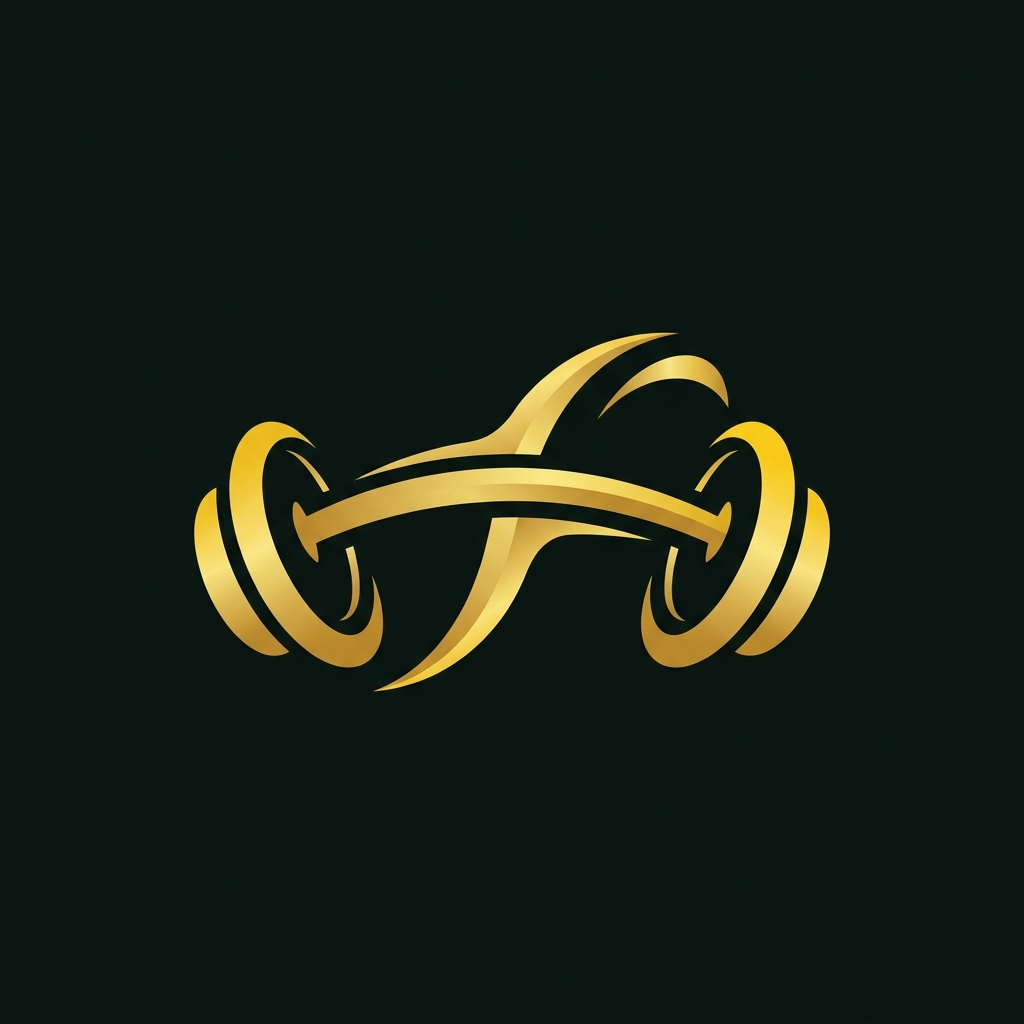
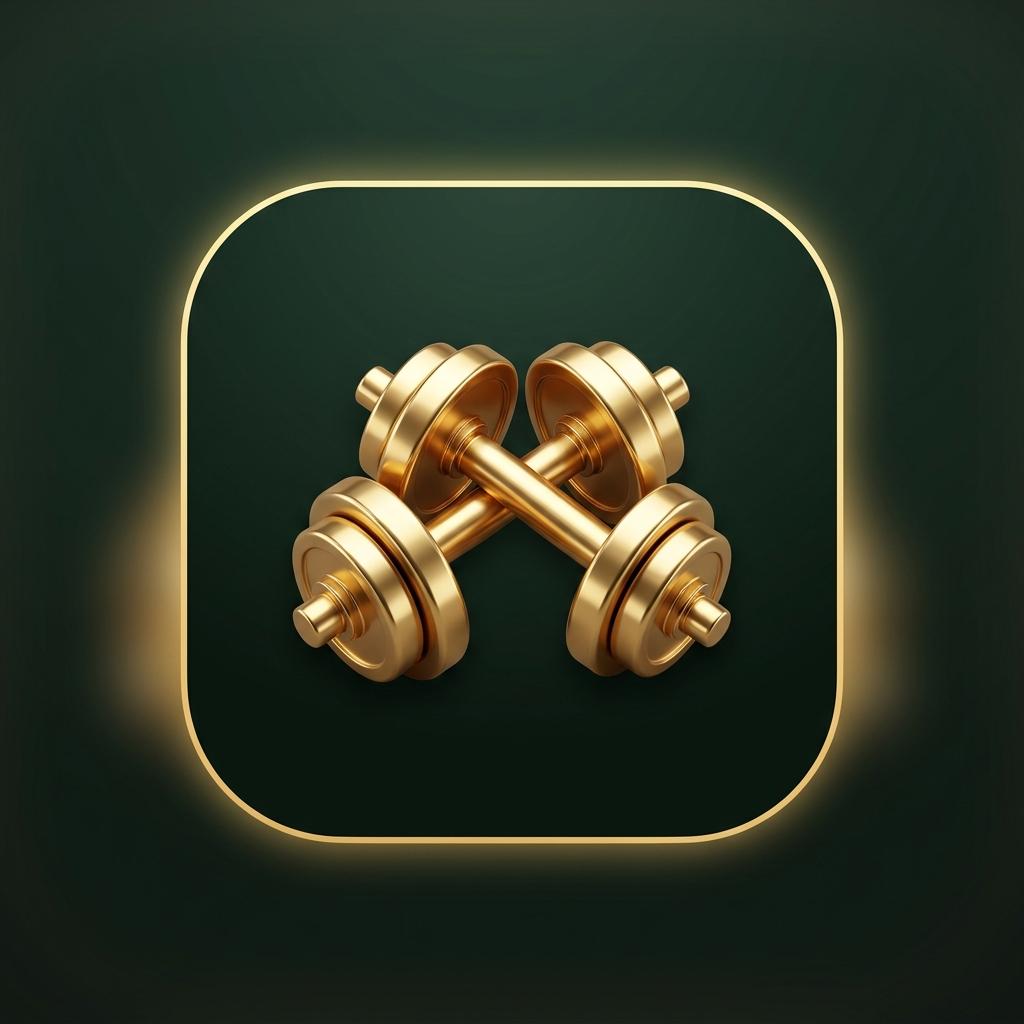
Implementação do ícone Android PWA e desvinculação de backgrounds em temas de configurações 06-07-2026 17:34

diff --git a/app/components/ConfigView.tsx b/app/components/ConfigView.tsx
@@ -5,6 +5,7 @@ import CustomAlertModal from './CustomAlertModal';
 import { generatePDFAndShare } from '../utils/pdf';
 import { User, ProfileConfig, HistoryEntry } from '../types';
 import { supabase } from '../utils/supabase';
+import { useTheme } from '../contexts/ThemeContext';
 
 interface ConfigViewProps {
   currentUser: User | null;
@@ -51,7 +52,7 @@ export default function ConfigView({ currentUser, onUserUpdate, brandSettings, f
   const [editingId, setEditingId] = useState<string | number | null>(null);
   const [editForm, setEditForm] = useState<User | null>(null);
 
-  const [theme, setTheme] = useState<string>('dark');
+  const { theme, toggleTheme } = useTheme();
   const [lastCreatedUser, setLastCreatedUser] = useState<{
     name: string;
     username: string;
@@ -61,19 +62,6 @@ export default function ConfigView({ currentUser, onUserUpdate, brandSettings, f
 
   const [showTokenGuide, setShowTokenGuide] = useState<boolean>(false);
   const [showChatIdGuide, setShowChatIdGuide] = useState<boolean>(false);
-
-  useEffect(() => {
-    if (typeof window !== 'undefined') {
-      const themeKey = currentUser?.id ? `elite_coach_theme_${currentUser.id}` : 'elite_coach_theme';
-      const savedTheme = localStorage.getItem(themeKey) || localStorage.getItem('elite_coach_theme') || 'dark';
-      setTheme(savedTheme);
-      if (savedTheme === 'light') {
-        document.documentElement.classList.add('light-theme');
-      } else {
-        document.documentElement.classList.remove('light-theme');
-      }
-    }
-  }, [currentUser]);
 
   const handleCopyCredentials = (u: User) => {
     const isLast = lastCreatedUser && lastCreatedUser.username === (u.username || u.email);
@@ -300,11 +288,7 @@ export default function ConfigView({ currentUser, onUserUpdate, brandSettings, f
     setProfile(prev => ({
       ...prev,
       colorPrimary: selected.primary,
-      colorPrimaryDim: selected.primaryDim,
-      colorSurface: selected.surface,
-      colorSurfaceContainer: selected.surfaceContainer,
-      colorSurfaceHigh: selected.surfaceHigh,
-      colorSurfaceHighest: selected.surfaceHighest
+      colorPrimaryDim: selected.primaryDim
     }));
   };
 
@@ -624,19 +608,6 @@ export default function ConfigView({ currentUser, onUserUpdate, brandSettings, f
         }
       }
     );
-  };
-
-  const toggleTheme = () => {
-    const newTheme = theme === 'dark' ? 'light' : 'dark';
-    setTheme(newTheme);
-    const themeKey = currentUser?.id ? `elite_coach_theme_${currentUser.id}` : 'elite_coach_theme';
-    localStorage.setItem(themeKey, newTheme);
-    localStorage.setItem('elite_coach_theme', newTheme);
-    if (newTheme === 'light') {
-      document.documentElement.classList.add('light-theme');
-    } else {
-      document.documentElement.classList.remove('light-theme');
-    }
   };
 
   const handleAdd = async () => {
@@ -1477,7 +1448,7 @@ export default function ConfigView({ currentUser, onUserUpdate, brandSettings, f
               <p className="text-zinc-400 text-sm">Alterne entre Dark Gold e Light Profissional</p>
             </div>
             <button 
-              onClick={toggleTheme} 
+              onClick={(e) => toggleTheme(e.clientX, e.clientY)} 
               className={`relative inline-flex h-6 w-11 items-center rounded-full transition-colors ${theme === 'light' ? 'bg-primary' : 'bg-surface-highest'}`}
             >
               <span className={`inline-block h-4 w-4 transform rounded-full bg-white transition-transform ${theme === 'light' ? 'translate-x-6' : 'translate-x-1'}`} />